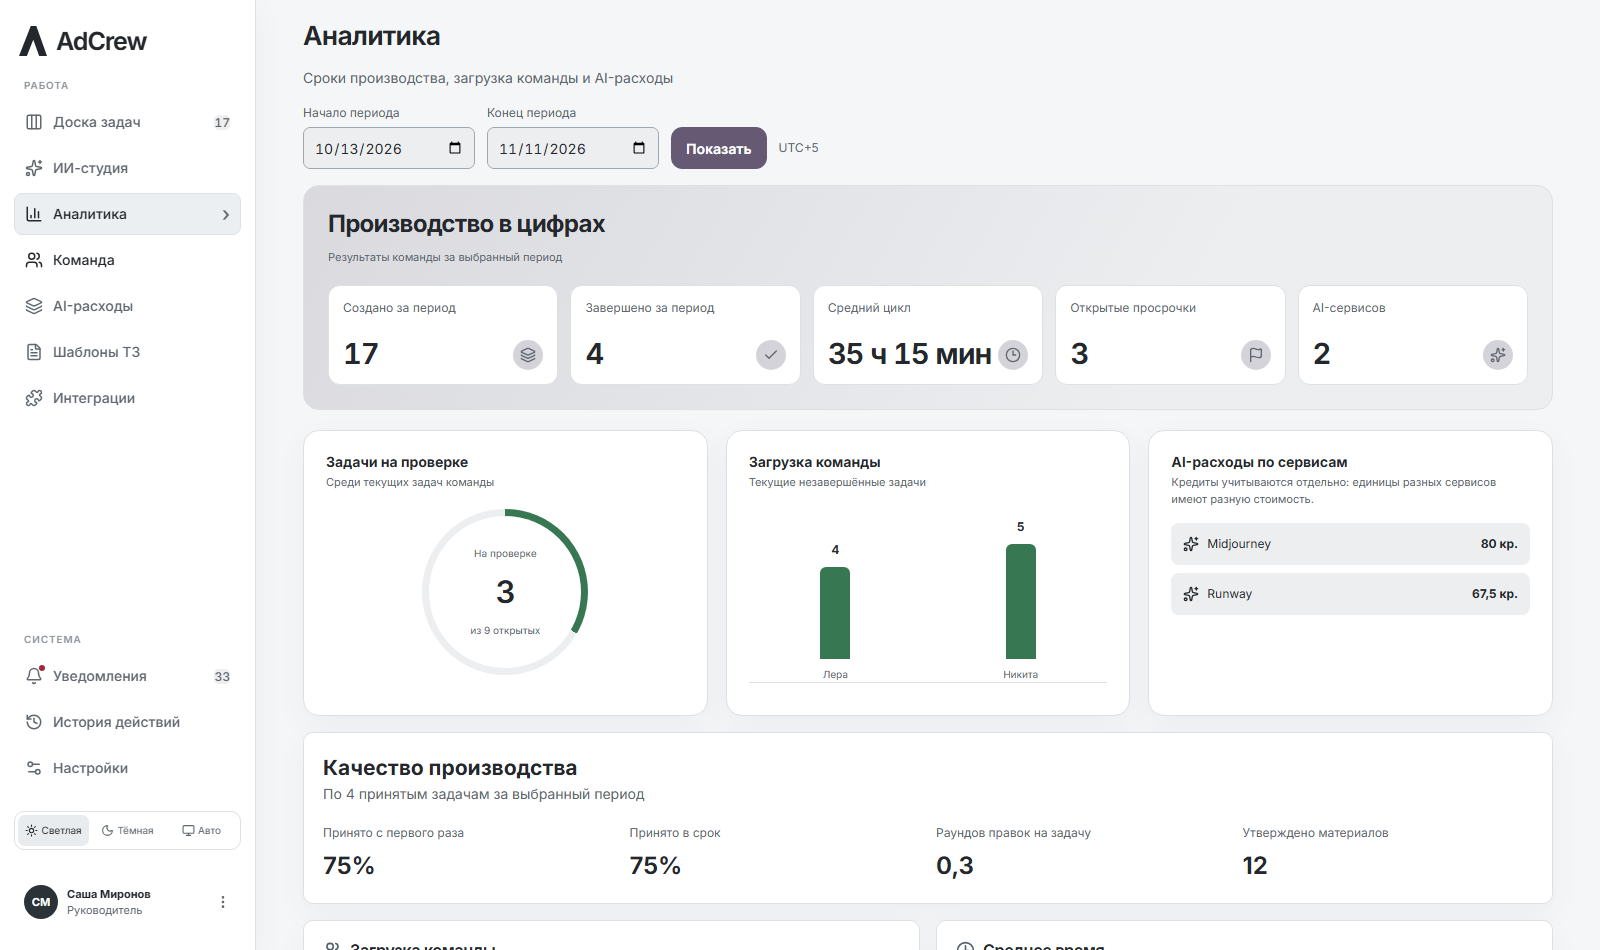
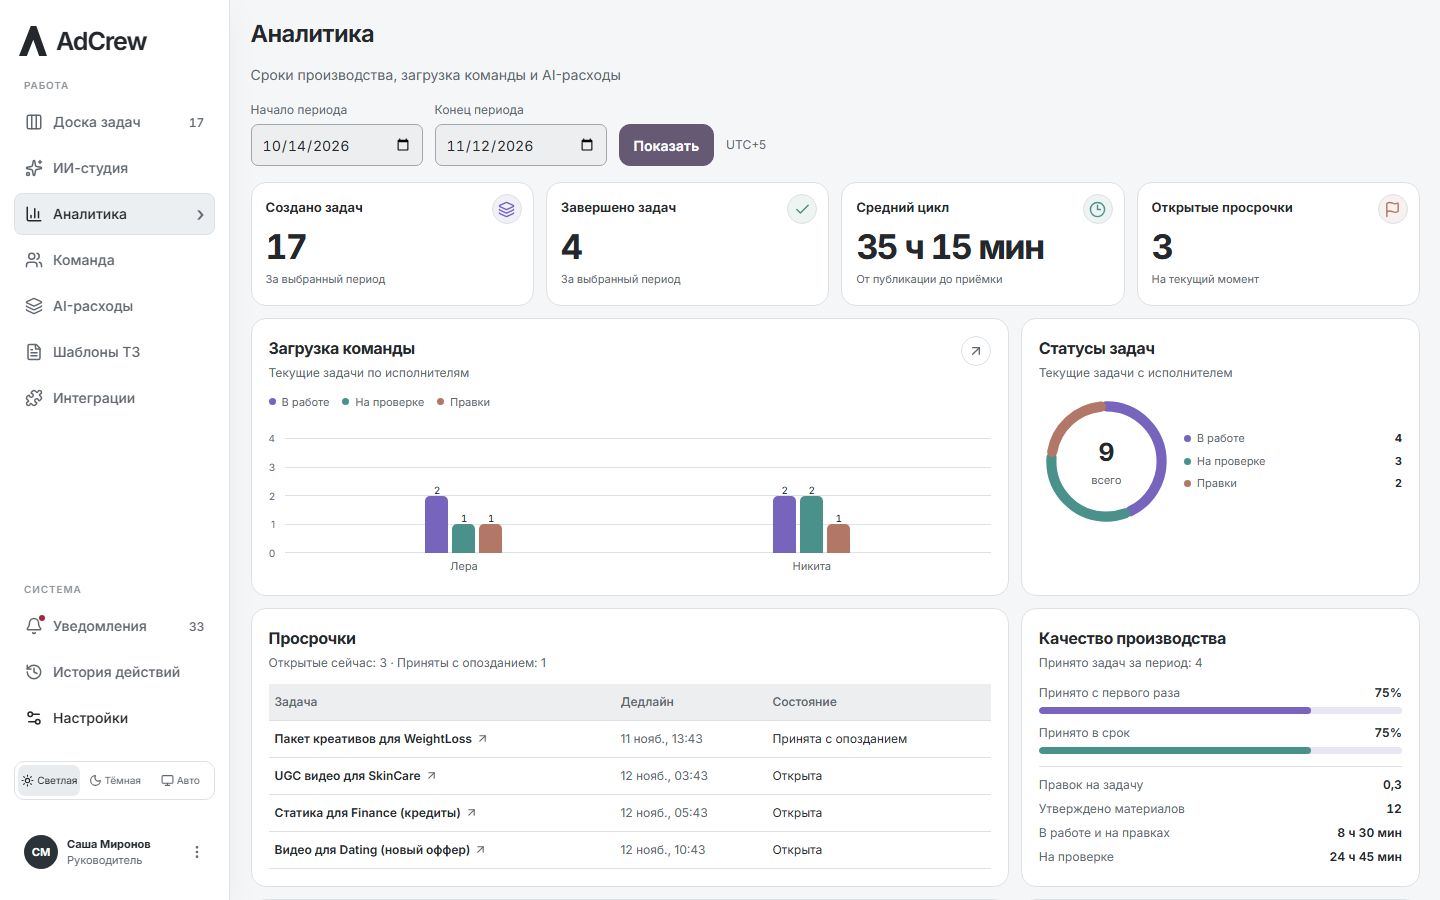
Redesign analytics dashboard in both themes

diff --git a/src/components/screens.tsx b/src/components/screens.tsx
@@ -15,6 +15,7 @@ import { BriefForm, SessionForm, TaskAction } from './forms';
 import { ThemeSelector, ThemeToggle } from './theme';
 import { DemoLogin, LoginCredentials } from './login-controls';
 import loginStyles from './login.module.css';
+import './analytics.css';
 
 function Brand() {
   return <div className="brand"><span className="brand-mark" aria-hidden="true" /><strong>AdCrew</strong></div>;
@@ -185,28 +186,64 @@ export { TaskInspector as TaskDrawer } from './task-inspector';
 
 type Report = ReturnType<Store['analytics']>;
 
-function AnalyticsOverview({ result }: { result: Report }) {
+const workloadStages = [
+  { id: 'progress', label: 'В работе' },
+  { id: 'review', label: 'На проверке' },
+  { id: 'revision', label: 'Правки' },
+] as const;
+
+function AnalyticsOverview({ result, delivery }: { result: Report; delivery?: ReturnType<typeof deliveryMetrics> }) {
   const byService = new Map<string, number>();
   for (const item of result.usage) byService.set(item.service, (byService.get(item.service) ?? 0) + item.units);
   const services = [...byService].sort((a, b) => a[0].localeCompare(b[0]));
-  const totalOpen = result.workload.reduce((n,item)=>n+item.progress+item.revision+item.review,0);
-  const review = result.workload.reduce((n,item)=>n+item.review,0);
-  const loadMax = Math.max(1,...result.workload.map(item=>item.progress+item.revision+item.review));
-  return <section className="analytics-overview" aria-labelledby="analytics-overview-title">
-    <div className="analytics-hero"><h2 id="analytics-overview-title" className="overview-title">Производство в цифрах</h2><p className="overview-caption">Результаты команды за выбранный период</p>
-    <dl className="overview-metrics">{[
-      { label: 'Создано за период', value: result.created, Icon: Layers3 },
-      { label: 'Завершено за период', value: result.completed, Icon: Check },
-      { label: 'Средний цикл', value: duration(result.average.cycle), Icon: Clock3 },
-      { label: 'Открытые просрочки', value: result.openOverdue.length, Icon: Flag },
-      { label: 'AI-сервисов', value: services.length, Icon: Sparkles },
-    ].map(({ label, value, Icon }) => <div className="overview-metric metric-tile" key={label}><i className="metric-icon" aria-hidden="true"><Icon size={16} /></i><dt>{label}</dt><dd>{value}</dd></div>)}</dl></div>
-    <div className="overview-graphs"><section><h3>Задачи на проверке</h3><p className="overview-caption">Среди текущих задач команды</p><div className="team-donut" style={{'--completion': `${totalOpen ? review/totalOpen*100 : 0}%`} as CSSProperties}><div><span>На проверке</span><strong>{review}</strong><small>из {totalOpen} открытых</small></div></div></section><section><h3>Загрузка команды</h3><p className="overview-caption">Текущие незавершённые задачи</p><div className="analytics-bars">{result.workload.map(item=><div key={item.id}><strong>{item.progress+item.revision+item.review}</strong><i style={{height:`${(item.progress+item.revision+item.review)/loadMax*115}px`}}/><span title={item.name}>{item.name.split(' ')[0]}</span></div>)}</div></section><section><h3>AI-расходы по сервисам</h3><p className="overview-caption">Кредиты учитываются отдельно: единицы разных сервисов имеют разную стоимость.</p>
-      {services.length ? <ul className="service-credit-list">{services.map(([service, units]) => <li key={service}><Sparkles size={16} /><span>{service}</span><strong>{formatCredits(units)} кр.</strong></li>)}</ul> : <p className="muted">За период расходов нет.</p>}
-    </section></div>
+  const totals = workloadStages.map(stage => ({ ...stage, count: result.workload.reduce((sum, item) => sum + item[stage.id], 0) }));
+  const total = totals.reduce((sum, stage) => sum + stage.count, 0);
+  const max = Math.max(1, ...result.workload.flatMap(item => workloadStages.map(stage => item[stage.id])));
+  const axis = Array.from({ length: 5 }, (_, index) => Math.ceil(max / 4) * (4 - index));
+  const segments = totals.map((stage, index) => ({
+    ...stage,
+    share: total ? stage.count / total * 100 : 0,
+    offset: total ? totals.slice(0, index).reduce((sum, previous) => sum + previous.count / total * 100, 0) : 0,
+  }));
+  return <section className="analytics-dashboard" aria-label="Сводка аналитики">
+    <dl className="analytics-kpis">{[
+      { label: 'Создано задач', value: result.created, note: 'За выбранный период', Icon: Layers3, tone: 'progress' },
+      { label: 'Завершено задач', value: result.completed, note: 'За выбранный период', Icon: Check, tone: 'done' },
+      { label: 'Средний цикл', value: duration(result.average.cycle), note: 'От публикации до приёмки', Icon: Clock3, tone: 'review' },
+      { label: 'Открытые просрочки', value: result.openOverdue.length, note: 'На текущий момент', Icon: Flag, tone: 'revision' },
+    ].map(({ label, value, note, Icon, tone }) => <div className="analytics-card analytics-kpi" data-tone={tone} key={label}><dt>{label}<span aria-hidden="true"><Icon size={17} /></span></dt><dd>{value}<small>{note}</small></dd></div>)}</dl>
+    <div className="analytics-layout">
+      <section className="analytics-card analytics-workload"><header><div><h2>Загрузка команды</h2><p>Текущие задачи по исполнителям</p></div><Link href="/team" className="analytics-card-link" aria-label="Открыть команду"><ArrowUpRight size={16} /></Link></header>
+        <ul className="analytics-legend">{workloadStages.map(stage => <li data-tone={stage.id} key={stage.id}>{stage.label}</li>)}</ul>
+        {result.workload.length ? <div className="analytics-chart">
+          <div className="analytics-axis" aria-hidden="true">{axis.map(value => <span key={value}>{value}</span>)}</div>
+          <div className="analytics-plot"><div className="analytics-gridlines" aria-hidden="true">{axis.map(value => <i key={value} />)}</div><div className="analytics-groups">
+            {result.workload.map(item => <div className="analytics-group" key={item.id}>
+              <div className="analytics-columns">{workloadStages.map(stage => <div key={stage.id} data-tone={stage.id} title={`${item.name} · ${stage.label}: ${item[stage.id]}`} style={{ '--bar-height': `${item[stage.id] / axis[0] * 100}%` } as CSSProperties}><span>{item[stage.id] || null}</span></div>)}</div>
+              <span title={item.name}>{item.name.split(' ')[0]}</span>
+            </div>)}
+          </div></div>
+        </div> : <p className="analytics-empty">Пока нет исполнителей с задачами.</p>}
+      </section>
+      <section className="analytics-card analytics-distribution"><header><div><h2>Статусы задач</h2><p>Текущие задачи с исполнителем</p></div></header>
+        <div className="analytics-donut-layout">
+          <div className="analytics-donut"><svg viewBox="0 0 120 120" aria-hidden="true"><circle cx="60" cy="60" r="49" /><g transform="rotate(-90 60 60)">{segments.filter(stage => stage.share > 0).map(stage => <circle key={stage.id} data-tone={stage.id} cx="60" cy="60" r="49" pathLength="100" strokeDasharray={`${Math.max(0.01, stage.share - Math.min(1.6, stage.share / 4))} 100`} strokeDashoffset={-stage.offset} />)}</g></svg><div><strong>{total}</strong><span>всего</span></div></div>
+          <ul className="analytics-legend">{totals.map(stage => <li data-tone={stage.id} key={stage.id}>{stage.label}<b>{stage.count}</b></li>)}</ul>
+        </div>
+      </section>
+      <OverdueReport result={result} />
+      {delivery && <section className="analytics-card analytics-quality" aria-label="Качество производства"><header><div><h2>Качество производства</h2><p>Принято задач за период: {delivery.count}</p></div></header>
+        {[['Принято с первого раза', delivery.firstPass], ['Принято в срок', delivery.onTime]].map(([label, value]) => <div className="analytics-quality-item" key={label}><div><span>{label}</span><strong>{typeof value === 'number' ? `${Math.round(value)}%` : '—'}</strong></div><div className="analytics-progress" aria-hidden="true"><i style={{ width: `${typeof value === 'number' ? value : 0}%` }} /></div></div>)}
+        <dl className="analytics-quality-facts"><div><dt>Правок на задачу</dt><dd>{delivery.revisions === null ? '—' : delivery.revisions.toLocaleString('ru', { maximumFractionDigits: 1 })}</dd></div><div><dt>Утверждено материалов</dt><dd>{delivery.materials}</dd></div><div><dt>В работе и на правках</dt><dd>{duration(result.average.production)}</dd></div><div><dt>На проверке</dt><dd>{duration(result.average.review)}</dd></div></dl>
+      </section>}
+      <CreditReport usage={result.usage} />
+      <section className="analytics-card analytics-services"><header><div><h2>AI-расходы по сервисам</h2><p>Кредиты за выбранный период</p></div><Link href="/ai-expenses" className="analytics-card-link" aria-label="Открыть AI-расходы"><ArrowUpRight size={16} /></Link></header>
+        <p className="analytics-service-count"><span>AI-сервисов</span><strong>{services.length}</strong></p>
+        {services.length ? <ul className="service-credit-list">{services.map(([service, units]) => <li key={service}><Sparkles size={15} /><span>{service}</span><strong>{formatCredits(units)} кр.</strong></li>)}</ul> : <p className="analytics-empty">За период расходов нет.</p>}
+      </section>
+    </div>
   </section>;
 }
-
 function ReportTeam({ workload }: { workload: Report['workload'] }) {
   const maximum = Math.max(1, ...workload.map((item) => item.progress + item.revision + item.review));
   return <section className="panel" id="team"><div className="panel-title"><Users size={19} /><h2>Загрузка команды</h2></div><p className="muted">Текущие незавершённые задачи по исполнителям.</p>
@@ -222,15 +259,16 @@ function CreditReport({ usage }: { usage: Report['usage'] }) {
 }
 
 function OverdueReport({ result }: { result: Report }) {
-  const groups = [{ label: 'Открытые сейчас', rows: result.openOverdue }, { label: 'Приняты с опозданием', rows: result.lateCompleted }];
-  return <section className="panel"><div className="panel-title"><Flag size={19} /><h2>Просрочки</h2></div>
-    <div className="report-overdue">{groups.map(({ label, rows }) => <section key={label} className="overdue-group">
-      <header><h3>{label}</h3><b>{rows.length}</b></header>
-      {rows.length ? <ul>{rows.toSorted((a, b) => a.deadline - b.deadline).map((task) => <li key={task.id}><Link href={`/tasks/${task.id}`}><strong>{task.offer}</strong><span><time dateTime={new Date(task.deadline).toISOString()}>{formatDate(task.deadline, true)}</time><ArrowUpRight size={15} /></span></Link></li>)}</ul> : <p className="muted">Нет просроченных задач.</p>}
-    </section>)}</div>
+  const rows = [
+    ...result.openOverdue.map(task => ({ task, label: 'Открыта' })),
+    ...result.lateCompleted.map(task => ({ task, label: 'Принята с опозданием' })),
+  ].toSorted((a, b) => a.task.deadline - b.task.deadline);
+  return <section className="analytics-card analytics-overdue"><header><div><h2>Просрочки</h2><p>Открытые сейчас: {result.openOverdue.length} · Приняты с опозданием: {result.lateCompleted.length}</p></div></header>
+    {rows.length ? <div className="report-table"><table><thead><tr><th>Задача</th><th>Дедлайн</th><th>Состояние</th></tr></thead><tbody>
+      {rows.map(({ task, label }) => <tr key={task.id}><td><Link href={`/tasks/${task.id}`}>{task.offer}<ArrowUpRight size={13} aria-hidden="true" /></Link></td><td><time dateTime={new Date(task.deadline).toISOString()}>{formatDate(task.deadline, true)}</time></td><td>{label}</td></tr>)}
+    </tbody></table></div> : <p className="analytics-empty">Просроченных задач нет.</p>}
   </section>;
 }
-
 export function Analytics({ result, start, end, error, section, delivery }: { result: Report | null; start: string; end: string; error?: string; section: 'analytics' | 'team' | 'ai-expenses'; delivery?: ReturnType<typeof deliveryMetrics> }) {
   const descriptions = { analytics: 'Сроки производства, загрузка команды и AI-расходы', team: 'Текущая загрузка креативщиков', 'ai-expenses': 'Расход по сервисам и исполнителям за выбранный период' };
   return <div className="analytics-page">
@@ -244,18 +282,7 @@ export function Analytics({ result, start, end, error, section, delivery }: { re
     {result && <>
       {section === 'team' && <ReportTeam workload={result.workload} />}
       {section === 'ai-expenses' && <CreditReport usage={result.usage} />}
-      {section === 'analytics' && <>
-        <AnalyticsOverview result={result} />
-        {delivery && <section className="delivery-summary panel" aria-label="Качество производства"><h2>Качество производства</h2><p className="muted">По {delivery.count} принятым задачам за выбранный период</p><dl>{[
-          ['Принято с первого раза', delivery.firstPass === null ? '—' : `${Math.round(delivery.firstPass)}%`],
-          ['Принято в срок', delivery.onTime === null ? '—' : `${Math.round(delivery.onTime)}%`],
-          ['Раундов правок на задачу', delivery.revisions === null ? '—' : delivery.revisions.toLocaleString('ru', { maximumFractionDigits: 1 })],
-          ['Утверждено материалов', delivery.materials],
-        ].map(([label, value]) => <div key={label}><dt>{label}</dt><dd>{value}</dd></div>)}</dl></section>}
-        <div className="report-grid"><ReportTeam workload={result.workload} /><section className="panel"><div className="panel-title"><Clock3 size={19} /><h2>Среднее время</h2></div><p className="muted">По задачам, принятым за период.</p><dl className="facts report-facts"><div><dt>Полный цикл</dt><dd>{duration(result.average.cycle)}</dd></div><div><dt>В работе и на правках</dt><dd>{duration(result.average.production)}</dd></div><div><dt>На проверке</dt><dd>{duration(result.average.review)}</dd></div></dl></section></div>
-        <CreditReport usage={result.usage} />
-        <OverdueReport result={result} />
-      </>}
+      {section === 'analytics' && <AnalyticsOverview result={result} delivery={delivery} />}
     </>}
   </div>;
 }

diff --git a/src/components/analytics.css b/src/components/analytics.css
@@ -1,0 +1,91 @@
+.analytics-dashboard {
+  --chart-progress: #7764bd;
+  --chart-review: #4b918b;
+  --chart-revision: #b37768;
+  --chart-done: #4d9277;
+  container-type: inline-size;
+  min-width: 0;
+}
+[data-theme='dark'] .analytics-dashboard {
+  --chart-progress: #aa96dd;
+  --chart-review: #79bbb3;
+  --chart-revision: #d29b8d;
+  --chart-done: #8fc4aa;
+}
+.analytics-dashboard [data-tone='progress'] { --chart-tone: var(--chart-progress); }
+.analytics-dashboard [data-tone='review'] { --chart-tone: var(--chart-review); }
+.analytics-dashboard [data-tone='revision'] { --chart-tone: var(--chart-revision); }
+.analytics-dashboard [data-tone='done'] { --chart-tone: var(--chart-done); }
+.analytics-kpis, .analytics-layout { display: grid; gap: 12px; }
+.analytics-kpis { grid-template-columns: repeat(4,minmax(0,1fr)); margin: 0 0 12px; }
+.analytics-layout { grid-template-columns: minmax(0,1.9fr) minmax(0,1fr); }
+.analytics-dashboard .analytics-card, .analytics-dashboard .panel {
+  min-width: 0;
+  padding: 17px;
+  border: 1px solid var(--rule);
+  border-radius: 15px;
+  background: var(--rail);
+  box-shadow: none;
+}
+.analytics-dashboard .analytics-kpi { position: relative; padding: 15px 14px; }
+.analytics-kpi dt { padding-right: 30px; color: var(--text); font-size: 13px; font-weight: 650; }
+.analytics-kpi dd { margin: 10px 0 5px; color: var(--text); font-size: clamp(21px,3cqi,34px); line-height: 1.12; letter-spacing: -.05em; font-weight: 720; font-variant-numeric: tabular-nums; }
+.analytics-kpi small { display: block; margin-top: 7px; color: var(--muted); font-size: 11px; font-weight: 400; letter-spacing: normal; }
+.analytics-kpi dt > span, .analytics-card-link { display: grid; place-items: center; width: 30px; height: 30px; border: 1px solid var(--rule); border-radius: 50%; }
+.analytics-kpi dt > span { position: absolute; top: 11px; right: 11px; color: var(--chart-tone); background: color-mix(in srgb,var(--chart-tone) 10%,var(--rail)); }
+.analytics-card > header { display: flex; align-items: start; justify-content: space-between; gap: 8px; margin-bottom: 12px; }
+.analytics-card h2 { margin: 0; font-size: 16px; letter-spacing: -.02em; }
+.analytics-card header p, .analytics-empty { margin: 5px 0 0; color: var(--muted); font-size: 12px; line-height: 1.4; }
+.analytics-card-link { flex-shrink: 0; color: var(--muted); }
+.analytics-card-link:hover { color: var(--text); border-color: var(--rule-strong); }
+.analytics-legend { display: flex; flex-wrap: wrap; gap: 6px 13px; list-style: none; margin: 0; padding: 0; }
+.analytics-legend li { display: flex; align-items: center; gap: 6px; color: var(--muted); font-size: 11px; }
+.analytics-legend li::before { content: ''; flex: 0 0 7px; height: 7px; border-radius: 50%; background: var(--chart-tone); }
+.analytics-chart { --plot-height: 115px; display: flex; gap: 8px; padding-top: 15px; }
+.analytics-axis { display: flex; flex-direction: column; justify-content: space-between; height: var(--plot-height); margin-top: 13px; color: var(--muted); font-size: 10px; line-height: 0; text-align: right; padding-right: 2px; }
+.analytics-plot { position: relative; flex: 1; min-width: 0; }
+.analytics-gridlines { position: absolute; inset: 13px 0 auto; display: flex; flex-direction: column; justify-content: space-between; height: var(--plot-height); pointer-events: none; }
+.analytics-gridlines i { border-top: 1px solid var(--rule); }
+.analytics-groups { position: relative; display: flex; overflow-x: auto; padding: 13px 5px 3px; }
+.analytics-group { flex: 1 0 66px; min-width: 0; display: grid; justify-items: center; gap: 5px; }
+.analytics-group > span { max-width: 100%; overflow: hidden; text-overflow: ellipsis; white-space: nowrap; color: var(--muted); font-size: 11px; }
+.analytics-columns { display: flex; align-items: end; justify-content: center; gap: 4px; width: 100%; height: var(--plot-height); }
+.analytics-columns > div { position: relative; height: var(--bar-height); width: min(16%,23px); border-radius: 5px 5px 0 0; background: var(--chart-tone); }
+.analytics-columns > div span { position: absolute; top: -13px; left: 50%; transform: translateX(-50%); color: var(--text); font-size: 10px; font-variant-numeric: tabular-nums; }
+.analytics-donut-layout { display: flex; flex-wrap: wrap; align-items: center; justify-content: space-around; gap: 10px; }
+.analytics-donut { position: relative; width: 135px; flex-shrink: 0; }
+.analytics-donut svg { width: 100%; display: block; }
+.analytics-donut circle { fill: none; stroke: var(--well); stroke-width: 9; }
+.analytics-donut g circle { stroke: var(--chart-tone); stroke-linecap: round; }
+.analytics-donut > div { position: absolute; inset: 0; display: grid; align-content: center; justify-items: center; }
+.analytics-donut strong { font-size: 25px; font-variant-numeric: tabular-nums; }
+.analytics-donut span { color: var(--muted); font-size: 11px; }
+.analytics-donut-layout .analytics-legend { display: grid; flex: 1; min-width: 110px; }
+.analytics-donut-layout li b { margin-left: auto; color: var(--text); font-variant-numeric: tabular-nums; }
+.analytics-overdue .report-table table, .analytics-dashboard #ai-usage table { margin-top: 0; font-size: 12px; }
+.analytics-dashboard .report-table th { background: var(--well); }
+.analytics-overdue td a { display: inline-flex; align-items: center; gap: 4px; color: var(--text); font-weight: 600; }
+.analytics-overdue td a:hover { text-decoration: underline; }
+.analytics-overdue td a svg { flex-shrink: 0; }
+.analytics-overdue td :is(time,svg) { color: var(--muted); }
+.analytics-quality-item { margin-bottom: 10px; }
+.analytics-quality-item > div:first-child, .analytics-quality-facts > div, .analytics-service-count { display: flex; justify-content: space-between; gap: 8px; color: var(--muted); font-size: 12px; }
+.analytics-quality-item strong, .analytics-quality-facts dd, .analytics-service-count strong { color: var(--text); font-weight: 650; font-variant-numeric: tabular-nums; }
+.analytics-progress { height: 7px; overflow: hidden; margin-top: 5px; border-radius: 10px; background: color-mix(in srgb,var(--chart-progress) 16%,var(--rail)); }
+.analytics-progress i { display: block; height: 100%; border-radius: inherit; background: var(--chart-progress); }
+.analytics-quality-item + .analytics-quality-item .analytics-progress i { background: var(--chart-review); }
+.analytics-quality-facts { display: grid; gap: 6px; margin: 12px 0 0; padding-top: 9px; border-top: 1px solid var(--rule); }
+.analytics-services .service-credit-list { display: grid; grid-template-columns: 1fr; gap: 6px; }
+.analytics-services li { display: flex; align-items: center; gap: 6px; min-width: 0; }
+.analytics-services li strong { margin-left: auto; white-space: nowrap; }
+.analytics-service-count { margin: 0 0 10px; }
+@container (max-width: 730px) {
+  .analytics-kpis { grid-template-columns: repeat(2,minmax(0,1fr)); }
+  .analytics-layout { grid-template-columns: minmax(0,1fr); }
+}
+@container (max-width: 385px) {
+  .analytics-dashboard .analytics-kpi { padding: 12px 9px; }
+  .analytics-kpi dt { padding-right: 0; }
+  .analytics-kpi dt > span { display: none; }
+  .analytics-dashboard .analytics-card:not(.analytics-kpi) { padding: 12px; }
+}
